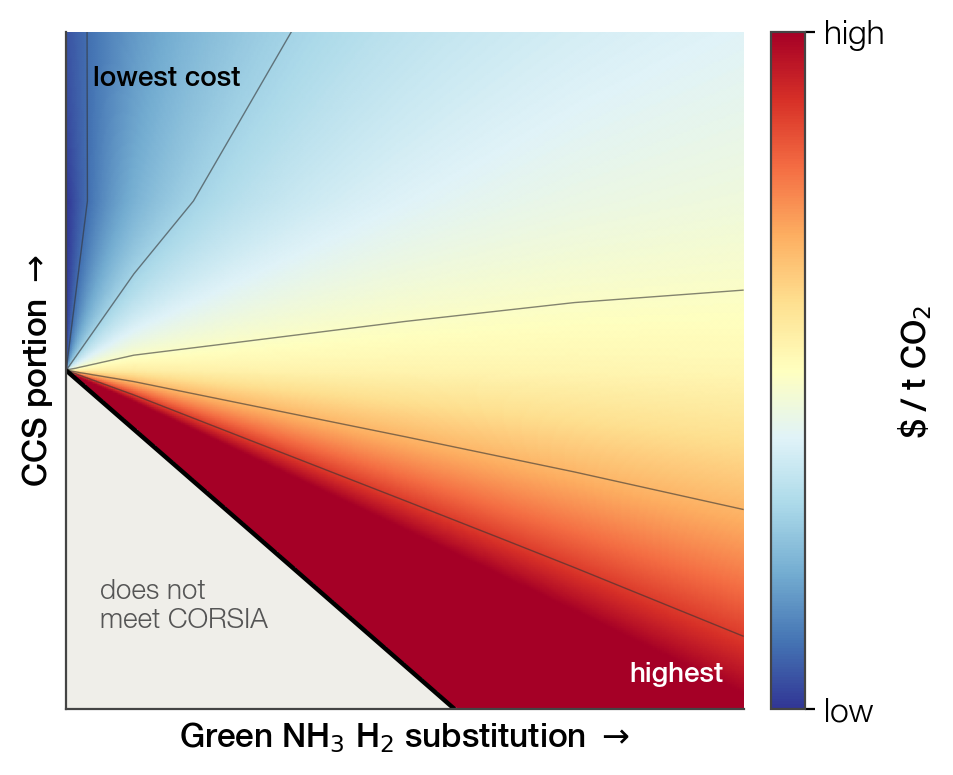
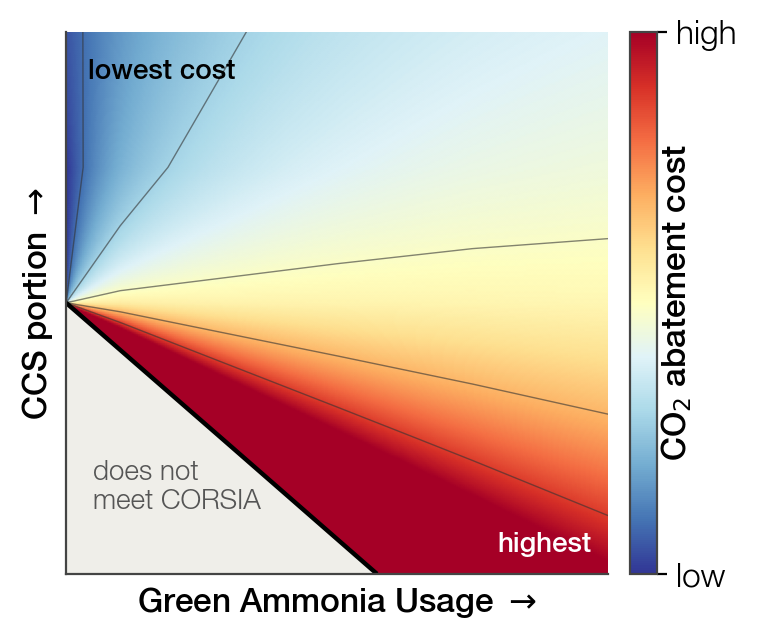
Abstract panels: Fig 2b shorter, no legend, vivid colors; Fig 3b smaller, relabeled; Handbook log
Claude-Session: https://claude.ai/code/session_014dpAy5Ufjqu4XgJv432uZR

diff --git a/plot_abstract_panels.py b/plot_abstract_panels.py
@@ -10,9 +10,9 @@ from scipy.interpolate import RegularGridInterpolator
 from funs_lca import CORSIA_THRESHOLD
 from tea_pareto_front import SA_RC
 
-LINE = {'Base': ('#E5534B', '-', 'Base (gray H$_2$)'),     # colors as in plot_scale_up_from_xlsx
-        'Ammonia': ('#F2B701', '--', 'Green NH$_3$'),
-        'CCS': ('#3FA34D', ':', 'CCS')}
+LINE = {'Base': ('#E8101A', '-', 'Base (gray H$_2$)'),     # saturated red / amber / green for the abstract
+        'Ammonia': ('#FF9500', '--', 'Green NH$_3$'),
+        'CCS': ('#00A03C', ':', 'CCS')}
 BAR_GRAYS = ['#d9d9d9', '#a6a6a6', '#707070']   # FR / FR-Log Linear / Fixed Elasticity
 E_MJ_PER_L = 31.66   # MJ/L SAF, same as tea_pareto_front abatement
 
@@ -41,28 +41,21 @@ def draw_scale(ax: plt.Axes) -> None:
         key = name.removeprefix('MJSP ')
         col, ls, lab = LINE[key]
         df = df.drop(columns='saf production [MMt/yr]')
-        ax2.fill_between(x, df.min(axis=1), df.max(axis=1), color=col, alpha=0.25, lw=0)
+        ax2.fill_between(x, df.min(axis=1), df.max(axis=1), color=col, alpha=0.35, lw=0)
         ax2.plot(x, df.mean(axis=1), color=col, ls=ls, lw=2.2, label=lab)
         if key == 'Base':
             i_min = int(df.mean(axis=1).values.argmin())
             y_min = df.mean(axis=1).iloc[i_min]
             ax2.plot(x[i_min], y_min, 'o', ms=8, mfc='white', mec=col, mew=1.8, zorder=5)
-            ax2.annotate('min', (x[i_min], y_min), xytext=(0, -14), textcoords='offset points',
-                         ha='center', va='top', fontweight=plt.rcParams['axes.labelweight'],
-                         bbox=dict(fc='white', ec='none', pad=1))
-    hi = ax2.get_ylim()[1] * 1.25   # headroom for legend
+    hi = ax2.get_ylim()[1] * 1.1
     ax2.set_ylim(-0.25 * hi, hi)   # lift lines above the floor-price bars (no numbers shown)
     ax2.spines['top'].set_visible(False)
     ax2.set_ylabel('MJSP (lines)')
     ax.set_ylabel('Biomass price (bars)')
-    ax.set_xlabel('SAF production')
+    ax.set_xlabel('Production Scale')
     ax.text(0.04, 0.72, 'economies of scale', transform=ax.transAxes, style='italic')
     ax.text(0.97, 0.72, r'feedstock cost $\uparrow$', transform=ax.transAxes, style='italic', ha='right')
-    h1, l1 = ax2.get_legend_handles_labels()
-    h2, l2 = ax.get_legend_handles_labels()
-    ax2.legend(h1 + h2, l1 + l2, ncol=2, loc='upper left', handlelength=2.2)
     no_numbers(ax, ax2)
-    ax2.set_box_aspect(1)
 
 
 def draw_mesh(ax: plt.Axes) -> None:
@@ -132,12 +125,13 @@ def draw_abatement(ax: plt.Axes) -> None:
     ax.text(0.97, 0.04, 'highest', transform=ax.transAxes, ha='right', fontweight=plt.rcParams['axes.labelweight'], color='white')
     ax.text(0.05, 0.12, 'does not\nmeet CORSIA', transform=ax.transAxes, color='#555555')
     ax.set_xlim(0, 1); ax.set_ylim(0, 1)
-    ax.set_xlabel(r'Green NH$_3$ H$_2$ substitution $\rightarrow$')
+    ax.set_xlabel(r'Green Ammonia Usage $\rightarrow$')
     ax.set_ylabel(r'CCS portion $\rightarrow$')
     cax = ax.inset_axes([1.04, 0, 0.05, 1])
     cb = ax.figure.colorbar(pm, cax=cax)
     cb.set_ticks([norm.vmin, norm.vmax]); cb.set_ticklabels(['low', 'high'])
-    cb.minorticks_off(); cb.set_label('\\$ / t CO$_2$')
+    # negative labelpad: tick labels sit only at the bar ends, so the label tucks into the gap beside it
+    cb.minorticks_off(); cb.set_label('CO$_2$ abatement cost', labelpad=-28)
     no_numbers(ax)
 
 
@@ -146,9 +140,12 @@ def main() -> None:
     plt.rcParams['figure.autolayout'] = False
     plt.rcParams.update({'axes.spines.top': False, 'axes.spines.right': False})   # as plot_composite
     # one PNG per panel; Fig 3a (draw_mesh) dropped from the output
-    for draw, name in [(draw_scale, 'abstract_fig2b.png'), (draw_abatement, 'abstract_fig3b.png')]:
-        fig, ax = plt.subplots(figsize=(4.6, 4.4))
-        ax.set_box_aspect(1)
+    # Fig 2b: height cut 30% then 10% more (4.4 -> 3.08 -> 2.77 in), no longer square; Fig 3b stays square
+    for draw, name, size, square in [(draw_scale, 'abstract_fig2b.png', (4.6, 2.77), False),
+                                     (draw_abatement, 'abstract_fig3b.png', (3.68, 3.52), True)]:
+        fig, ax = plt.subplots(figsize=size)
+        if square:
+            ax.set_box_aspect(1)
         draw(ax)
         out = os.path.join('Figure', name)
         fig.savefig(out, dpi=200)

diff --git a/Manuscript/_Handbook_for_Manuscript.md b/Manuscript/_Handbook_for_Manuscript.md
@@ -35,6 +35,36 @@ The `.tex` file names contain a space and no period after the number (`2 Methods
 
 ## Log history
 
+### 2026-10-21 (update 7)
+
+**Code**
+- `plot_abstract_panels.py` (`main`, `draw_abatement`): Fig 3b figsize (4.6, 4.4) → (3.68, 3.52) (−20%, fonts read larger); x-axis label → "Green Ammonia Usage".
+- Same day correction: x-axis label restored the right arrow → "Green Ammonia Usage →", matching the y-axis label.
+- `draw_abatement`: colorbar label "\$ / t CO₂" → "CO₂ abatement cost", pulled next to the bar (`labelpad=-28`).
+
+### 2026-10-21 (update 6)
+
+**Code**
+- `plot_abstract_panels.py` (`draw_scale`): Fig 2b x-axis label "SAF production" → "Production Scale".
+
+### 2026-10-21 (update 5)
+
+**Code**
+- `plot_abstract_panels.py` (`main`): Fig 2b height cut another 10% of its current height (figsize (4.6, 3.08) → (4.6, 2.77)).
+
+### 2026-10-21 (update 4)
+
+**Code**
+- `plot_abstract_panels.py` (`draw_scale`): removed the "min" text from Fig 2b; the open circle at the Base minimum stays.
+
+### 2026-10-21 (update 3)
+
+**Discussion**
+- Fig 2b abstract panel: user asked for 30% less height with the same font size, no legend, and more vivid colors. Fig 3b unchanged.
+
+**Code**
+- `plot_abstract_panels.py`: Fig 2b figsize (4.6, 4.4) → (4.6, 3.08), so it is no longer square. Legend removed and legend headroom cut (1.25 → 1.1). Line colors saturated (#E8101A / #FF9500 / #00A03C) and band alpha 0.25 → 0.35.
+
 ### 2026-10-21 (update 2)
 
 **Discussion**
